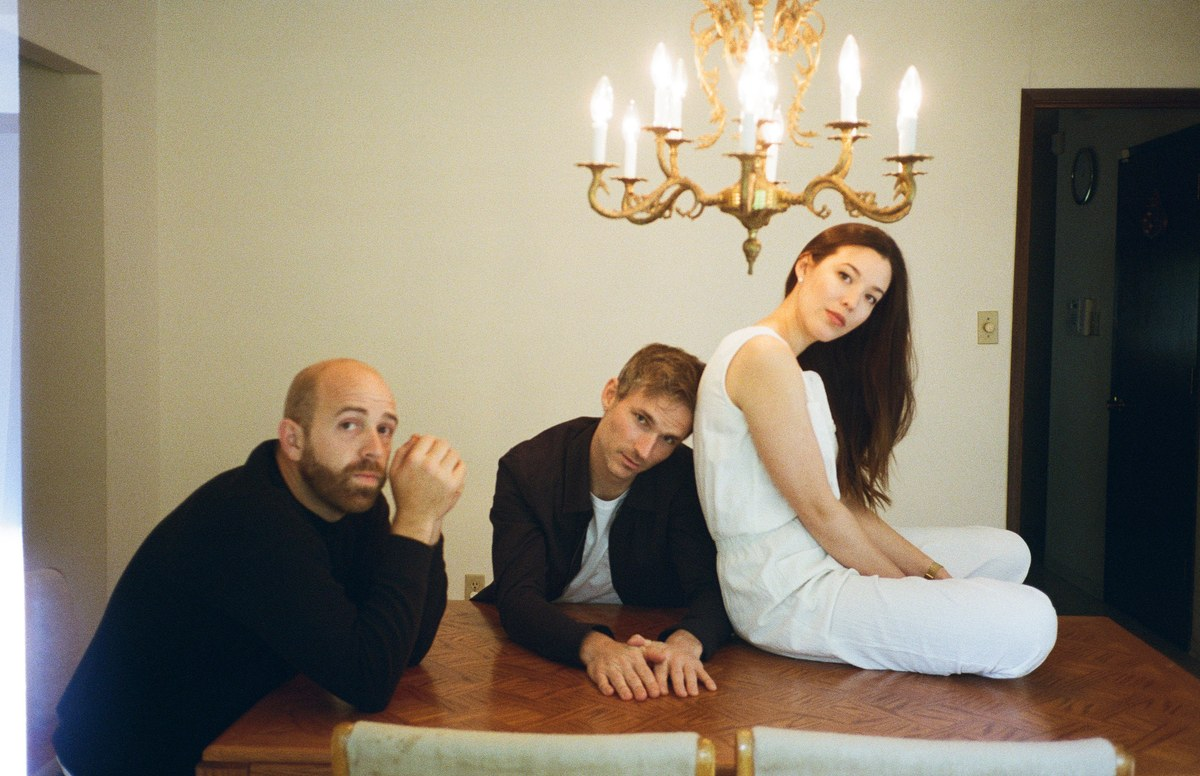
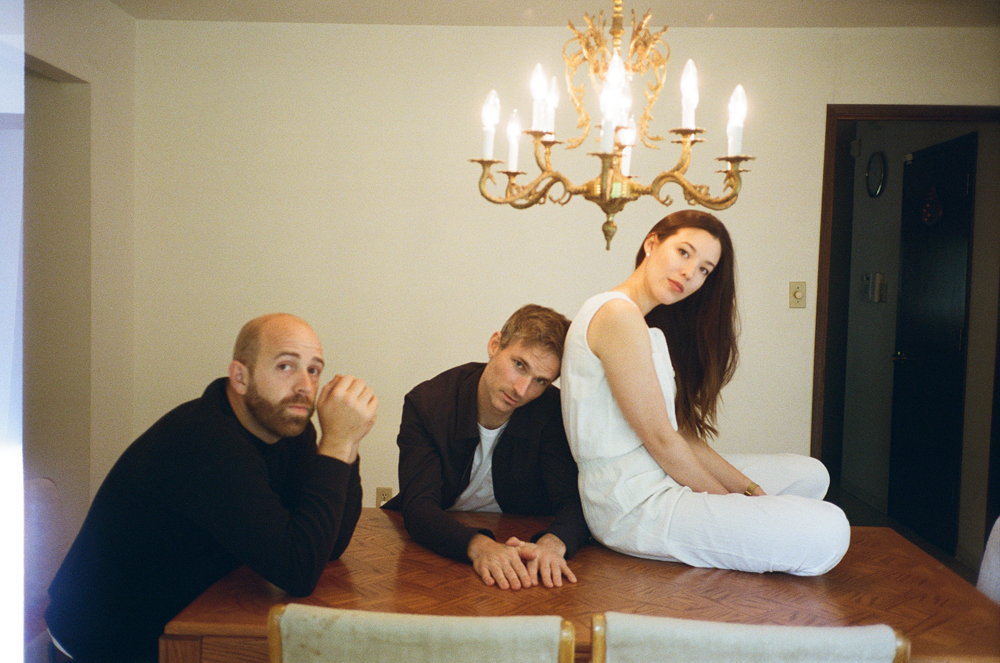
Treat Cascadia as a Heins visual world, not three stills.
Sixteen June 2018 Favourites stills on the cream museum card, credited to Vanessa Heins. UnAmerican official plus house and Save On Meats / Malkin Bowl YouTube posters; Record Shop and Love Always stay quiet slots (no bundled 280MB masters, no TODO in the UI).

diff --git a/data/catalog.ts b/data/catalog.ts
@@ -55,7 +55,9 @@ export type EraVideo = {
   /** TODO: host the Dropbox MP4 and put the https URL here. */
   uri?: string;
   streamTodo?: string;
-  caption: string;
+  caption?: string;
+  /** Still used as a quiet poster when there is no YouTube / hosted URL. */
+  posterSource?: number;
 };
 
 export type EraWorld = {
@@ -115,11 +117,30 @@ function t(
 }
 
 const photos = {
-  heinsStaircase: require('../assets/photos/cascadia/VH_STW_JUNE2018_0260.jpg'),
-  heinsGreenhouse: require('../assets/photos/cascadia/VH_STW_JUNE2018_0188.jpg'),
-  heinsFilm: require('../assets/photos/cascadia/VH_STW_FILM_JUNE2018_0008.jpg'),
+  vh0260: require('../assets/photos/cascadia/VH_STW_JUNE2018_0260.jpg'),
+  vh0188: require('../assets/photos/cascadia/VH_STW_JUNE2018_0188.jpg'),
+  vh0239: require('../assets/photos/cascadia/VH_STW_JUNE2018_0239.jpg'),
+  vh0240: require('../assets/photos/cascadia/VH_STW_JUNE2018_0240.jpg'),
+  vh0266: require('../assets/photos/cascadia/VH_STW_JUNE2018_0266.jpg'),
+  vh0274: require('../assets/photos/cascadia/VH_STW_JUNE2018_0274.jpg'),
+  vh0291: require('../assets/photos/cascadia/VH_STW_JUNE2018_0291.jpg'),
+  vh0301: require('../assets/photos/cascadia/VH_STW_JUNE2018_0301.jpg'),
+  vh0019: require('../assets/photos/cascadia/VH_STW_JUNE2018_0019.jpg'),
+  vh0028: require('../assets/photos/cascadia/VH_STW_JUNE2018_0028.jpg'),
+  vh0082: require('../assets/photos/cascadia/VH_STW_JUNE2018_0082.jpg'),
+  vh0146: require('../assets/photos/cascadia/VH_STW_JUNE2018_0146.jpg'),
+  vh0150: require('../assets/photos/cascadia/VH_STW_JUNE2018_0150.jpg'),
+  vhFilm0008: require('../assets/photos/cascadia/VH_STW_FILM_JUNE2018_0008.jpg'),
+  vhFilm0026: require('../assets/photos/cascadia/VH_STW_FILM_JUNE2018_0026.jpg'),
+  vhFilm0048: require('../assets/photos/cascadia/VH_STW_FILM_JUNE2018_0048.jpg'),
   alayeawTrio: require('../assets/photos/IMG_7223-CROP.jpg'),
 } as const;
+
+const HEINS_2018 = 'Vanessa Heins, 2018';
+
+function heinsStill(id: string, source: number): EraGalleryItem {
+  return { id, kind: 'photo', source, credit: HEINS_2018 };
+}
 
 const F = {
   howe: '01 Howe Sounds',
@@ -383,32 +404,59 @@ export const bundledCatalog: Catalog = {
         t('gambier-island-green', 'Gambier Island Green', { duration: '3:30', streamTodo: numbered(F.cascadia, 12, 'Gambier Island Green') }),
       ],
       gallery: [
-        {
-          id: 'cascadia-0260',
-          kind: 'photo',
-          source: photos.heinsStaircase,
-          credit: 'Vanessa Heins, 2018',
-        },
-        {
-          id: 'cascadia-0188',
-          kind: 'photo',
-          source: photos.heinsGreenhouse,
-          credit: 'Vanessa Heins, 2018',
-        },
-        {
-          id: 'cascadia-film-0008',
-          kind: 'photo',
-          source: photos.heinsFilm,
-          credit: 'Vanessa Heins, 2018',
-        },
+        heinsStill('cascadia-0260', photos.vh0260),
+        heinsStill('cascadia-0188', photos.vh0188),
+        heinsStill('cascadia-film-0008', photos.vhFilm0008),
+        heinsStill('cascadia-0019', photos.vh0019),
+        heinsStill('cascadia-0146', photos.vh0146),
+        heinsStill('cascadia-0082', photos.vh0082),
+        heinsStill('cascadia-0301', photos.vh0301),
+        heinsStill('cascadia-0240', photos.vh0240),
+        heinsStill('cascadia-film-0026', photos.vhFilm0026),
+        heinsStill('cascadia-0239', photos.vh0239),
+        heinsStill('cascadia-0028', photos.vh0028),
+        heinsStill('cascadia-0150', photos.vh0150),
+        heinsStill('cascadia-0266', photos.vh0266),
+        heinsStill('cascadia-0274', photos.vh0274),
+        heinsStill('cascadia-0291', photos.vh0291),
+        heinsStill('cascadia-film-0048', photos.vhFilm0048),
       ],
       videos: [
         {
           id: 'unamerican',
-          title: 'UnAmerican (Official Video)',
+          title: 'UnAmerican',
           youtubeId: 'vYY0eZHvSGo',
-          caption: 'Prism Prize Audience Award. 2,250 pieces of paper, no green screen. Directed by Johnny Jansen / GARDEN.',
           streamTodo: 'TODO VIDEO: /STW Photo & Video - Sterling & Zac/ UnAmerican',
+        },
+        {
+          id: 'unamerican-popos',
+          title: "UnAmerican — live at Popo's house",
+          youtubeId: 'VxBYnRD62QM',
+          streamTodo: 'TODO VIDEO: /STW Photo & Video - Sterling & Zac/Live Sessions/UnAmerican_1',
+        },
+        {
+          id: 'unamerican-save-on-meats',
+          title: 'UnAmerican — Save On Meats',
+          youtubeId: 'A3MzGN-5I50',
+          streamTodo: 'TODO VIDEO: /STW Photo & Video - Sterling & Zac/Save on Meats/Save on Meats_UnAmerican STW Live Clip .mp4',
+        },
+        {
+          id: 'wake-up-malkin',
+          title: 'Wake Up — Malkin Bowl',
+          youtubeId: '2gjl_ved7VE',
+          streamTodo: 'TODO VIDEO: /STW Photo & Video - Sterling & Zac/ Malkin Bowl / Stanley Park live sesh',
+        },
+        {
+          id: 'record-shop-vignette',
+          title: 'Record Shop',
+          posterSource: photos.vh0146,
+          streamTodo: 'TODO VIDEO: /STW Photo & Video - Sterling & Zac/Vignettes/Record Shop Vignette 002',
+        },
+        {
+          id: 'love-always-vignette',
+          title: 'Love Always',
+          posterSource: photos.vh0188,
+          streamTodo: 'TODO VIDEO: /STW Photo & Video - Sterling & Zac/Vignettes/Love Always - Beach - New Vignette',
         },
       ],
     },

diff --git a/components/era/EraVideoCard.tsx b/components/era/EraVideoCard.tsx
@@ -1,12 +1,15 @@
-import { Image, Linking, Pressable, StyleSheet, Text, View } from 'react-native';
+import { Image, Linking, Pressable, StyleSheet, Text, View, useWindowDimensions } from 'react-native';
 import * as WebBrowser from 'expo-web-browser';
 import { EraVideo } from '@/data/catalog';
 import { archive, font } from '@/theme/archive';
 
 export function EraVideoCard({ video }: { video: EraVideo }) {
+  const playable = Boolean(video.youtubeId || video.uri);
   const thumb = video.youtubeId
     ? { uri: `https://i.ytimg.com/vi/${video.youtubeId}/hqdefault.jpg` }
-    : undefined;
+    : video.posterSource
+      ? (video.posterSource as number)
+      : undefined;
 
   const open = async () => {
     if (video.youtubeId) {
@@ -16,58 +19,64 @@ export function EraVideoCard({ video }: { video: EraVideo }) {
       } catch {
         Linking.openURL(url);
       }
+      return;
+    }
+    if (video.uri) {
+      try {
+        await WebBrowser.openBrowserAsync(video.uri);
+      } catch {
+        Linking.openURL(video.uri);
+      }
     }
   };
 
   return (
-    <Pressable onPress={open} disabled={!video.youtubeId} style={({ pressed }) => [styles.card, pressed && { opacity: 0.92 }]}>
-      {thumb ? (
-        <View style={styles.thumbWrap}>
-          <Image source={thumb} style={StyleSheet.absoluteFill} resizeMode="cover" />
+    <Pressable
+      onPress={open}
+      disabled={!playable}
+      style={({ pressed }) => [styles.card, pressed && playable && { opacity: 0.92 }]}
+    >
+      <View style={[styles.thumbWrap, !thumb && styles.quiet]}>
+        {thumb ? <Image source={thumb} style={StyleSheet.absoluteFill} resizeMode="cover" /> : null}
+        {playable ? (
           <View style={styles.play}><Text style={styles.playGlyph}>▶</Text></View>
-        </View>
-      ) : (
-        <View style={[styles.thumbWrap, styles.todo]}>
-          <Text style={styles.todoLabel}>Video</Text>
-        </View>
-      )}
-      <Text style={styles.title}>{video.title}</Text>
-      <Text style={styles.caption}>{video.caption}</Text>
-      {video.streamTodo ? <Text style={styles.todoPath}>{video.streamTodo}</Text> : null}
+        ) : null}
+      </View>
+      <Text style={styles.title} numberOfLines={2}>{video.title}</Text>
+      {video.caption ? <Text style={styles.caption}>{video.caption}</Text> : null}
     </Pressable>
   );
 }
 
 export function EraVideos({ videos }: { videos?: EraVideo[] }) {
+  const { width } = useWindowDimensions();
   if (!videos?.length) return null;
+  const pageW = Math.min(width, 390);
+  const twoCol = videos.length > 1;
+  const gap = 10;
+  const cellW = twoCol ? (pageW - 48 - gap) / 2 : pageW - 48;
+
   return (
-    <View style={styles.wrap}>
-      <Text style={styles.eyebrow}>Moving pictures</Text>
-      {videos.map((v) => (
-        <EraVideoCard key={v.id} video={v} />
-      ))}
+    <View style={[styles.wrap, { width: pageW }]}>
+      <View style={[styles.grid, { gap }]}>
+        {videos.map((v) => (
+          <View key={v.id} style={{ width: cellW }}>
+            <EraVideoCard video={v} />
+          </View>
+        ))}
+      </View>
     </View>
   );
 }
 
 const styles = StyleSheet.create({
-  wrap: { paddingHorizontal: 20, gap: 16, marginTop: 8, marginBottom: 16 },
-  eyebrow: {
-    fontFamily: font.sans,
-    fontSize: 11,
-    letterSpacing: 4,
-    textTransform: 'uppercase',
-    color: archive.color.warmGrey,
-    textAlign: 'center',
-    marginBottom: 4,
-  },
-  card: { backgroundColor: archive.color.paper, borderWidth: 1, borderColor: archive.color.line, padding: 10, paddingBottom: 16 },
+  wrap: { paddingHorizontal: 24, marginTop: 4, marginBottom: 20, alignSelf: 'center' },
+  grid: { flexDirection: 'row', flexWrap: 'wrap' },
+  card: { backgroundColor: archive.color.paper, borderWidth: 1, borderColor: archive.color.line, padding: 8, paddingBottom: 12 },
   thumbWrap: { aspectRatio: 16 / 9, backgroundColor: '#1a1410', alignItems: 'center', justifyContent: 'center', overflow: 'hidden' },
-  play: { width: 56, height: 56, borderRadius: 28, backgroundColor: 'rgba(196,97,78,0.92)', alignItems: 'center', justifyContent: 'center' },
-  playGlyph: { color: archive.color.paper, fontSize: 18, marginLeft: 3 },
-  title: { fontFamily: font.sans, fontSize: 15, fontWeight: '600', color: archive.color.ink, marginTop: 12, letterSpacing: 0.3 },
-  caption: { fontFamily: font.sans, fontSize: 13, lineHeight: 19, color: archive.color.bodySoft, marginTop: 6 },
-  todo: { backgroundColor: '#EDE3CE' },
-  todoLabel: { fontFamily: font.script, color: archive.color.warmGrey, fontSize: 16 },
-  todoPath: { fontFamily: font.sans, fontSize: 10, color: archive.color.warmGrey, marginTop: 8 },
+  play: { width: 40, height: 40, borderRadius: 20, backgroundColor: 'rgba(196,97,78,0.92)', alignItems: 'center', justifyContent: 'center' },
+  playGlyph: { color: archive.color.paper, fontSize: 14, marginLeft: 2 },
+  title: { fontFamily: font.sans, fontSize: 12, fontWeight: '600', color: archive.color.ink, marginTop: 10, letterSpacing: 0.2 },
+  caption: { fontFamily: font.sans, fontSize: 12, lineHeight: 18, color: archive.color.bodySoft, marginTop: 4 },
+  quiet: { backgroundColor: '#EDE3CE' },
 });

diff --git a/components/era/EraGallery.tsx b/components/era/EraGallery.tsx
@@ -2,7 +2,7 @@ import { Image, StyleSheet, Text, View, useWindowDimensions } from 'react-native
 import { EraGalleryItem } from '@/data/catalog';
 import { archive, font } from '@/theme/archive';
 
-/** Small photo strip under the cream museum card. Photos only — no captions. */
+/** Heins stills under the cream museum card. Credit once — no captions. */
 export function EraGallery({ items }: { items: EraGalleryItem[] }) {
   const { width } = useWindowDimensions();
   const pageW = Math.min(width, 390);
@@ -10,28 +10,45 @@ export function EraGallery({ items }: { items: EraGalleryItem[] }) {
   if (!photos.length) return null;
 
   const credit = photos.find((p) => p.credit)?.credit;
+  const [hero, ...rest] = photos;
+  const gap = 8;
+  const inner = pageW - 48;
+  const colW = (inner - gap) / 2;
+
+  const srcOf = (item: EraGalleryItem) =>
+    item.source ?? (item.uri ? { uri: item.uri } : undefined);
 
   return (
     <View style={styles.wrap}>
-      {photos.map((item) => {
-        const src = item.source ?? (item.uri ? { uri: item.uri } : undefined);
-        if (!src) return null;
-        return (
-          <Image
-            key={item.id}
-            source={src}
-            style={[styles.img, { width: pageW - 48, height: (pageW - 48) * 1.25 }]}
-            resizeMode="cover"
-          />
-        );
-      })}
+      {hero ? (
+        <Image
+          source={srcOf(hero)}
+          style={[styles.img, { width: inner, height: inner * 1.22 }]}
+          resizeMode="cover"
+        />
+      ) : null}
+      <View style={[styles.grid, { width: inner, gap }]}>
+        {rest.map((item) => {
+          const src = srcOf(item);
+          if (!src) return null;
+          return (
+            <Image
+              key={item.id}
+              source={src}
+              style={[styles.img, { width: colW, height: colW * 1.22 }]}
+              resizeMode="cover"
+            />
+          );
+        })}
+      </View>
       {credit ? <Text style={styles.credit}>{credit}</Text> : null}
     </View>
   );
 }
 
 const styles = StyleSheet.create({
-  wrap: { paddingHorizontal: 24, paddingBottom: 8, alignItems: 'center', gap: 14 },
+  wrap: { paddingHorizontal: 24, paddingBottom: 8, alignItems: 'center', gap: 10 },
+  grid: { flexDirection: 'row', flexWrap: 'wrap' },
   img: { backgroundColor: '#EDE3CE' },
   credit: {
     fontFamily: font.sans,
@@ -39,7 +56,7 @@ const styles = StyleSheet.create({
     letterSpacing: 1.5,
     color: archive.color.warmGrey,
     textAlign: 'center',
-    marginTop: 4,
+    marginTop: 8,
     marginBottom: 12,
   },
 });

diff --git a/app/album/[id].tsx b/app/album/[id].tsx
@@ -4,6 +4,7 @@ import { useSafeAreaInsets } from 'react-native-safe-area-context';
 
 import { AlbumArt } from '@/components/archive/AlbumArt';
 import { EraGallery } from '@/components/era/EraGallery';
+import { EraVideos } from '@/components/era/EraVideoCard';
 import { findAlbum, bundledCatalog } from '@/data/catalog';
 import { useCatalog } from '@/context/CatalogContext';
 import { useArchivePlayer, lengthForTrack } from '@/context/ArchivePlayerContext';
@@ -71,6 +72,7 @@ export default function AlbumDetail() {
         </View>
 
         {galleryPhotos.length ? <EraGallery items={galleryPhotos} /> : null}
+        {album.videos?.length ? <EraVideos videos={album.videos} /> : null}
 
         <View style={styles.listWrap}>
           <Text style={styles.listEyebrow}>Track List</Text>

diff --git a/assets/photos/index.ts b/assets/photos/index.ts
@@ -9,6 +9,9 @@ export const PHOTOS = [
   require('./cascadia/VH_STW_JUNE2018_0260.jpg'),
   require('./cascadia/VH_STW_JUNE2018_0188.jpg'),
   require('./cascadia/VH_STW_FILM_JUNE2018_0008.jpg'),
+  require('./cascadia/VH_STW_JUNE2018_0146.jpg'),
+  require('./cascadia/VH_STW_JUNE2018_0082.jpg'),
+  require('./cascadia/VH_STW_JUNE2018_0301.jpg'),
   require('./IMG_7223-CROP.jpg'),
   require('./IMG_7415.jpg'),
   require('./IMG_7579.jpg'),
